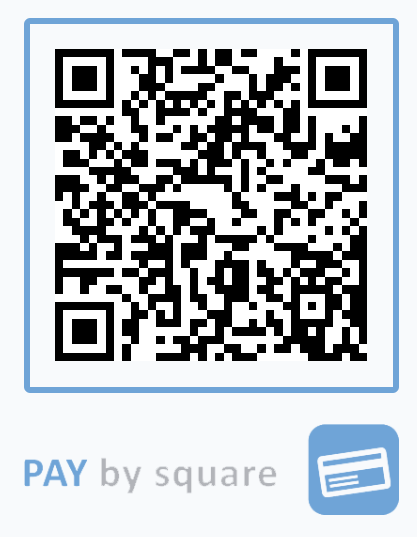
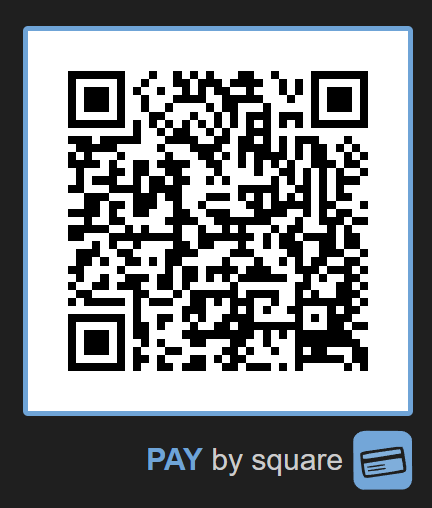
add recipient

diff --git a/index.html b/index.html
@@ -17,7 +17,10 @@
             <input type="text" id="price" name="price" value="5.01" />
 
             <label for="note">Note</label>
-            <input type="text" id="note" name="note" value="jozko mrkvicka" />
+            <input type="text" id="note" name="note" value="pre jozka" />
+
+            <label for="recipient">Recipient</label>
+            <input type="text" id="recipient" name="recipient" value="jozko mrkvicka" />
 
             <label for="iban">IBAN</label>
             <input type="text" id="iban" name="iban" value="SK7700000000000000000000" />
@@ -33,6 +36,8 @@
 
             <label for="cs">CS</label>
             <input type="text" id="cs" name="cs" value="0000" />
+
+
         </div>
         <div>
             <img class="qr-image" src="/qr.php?price=5.01&note=jozko+mrkvicka&iban=SK7700000000000000000000&swift=CEKOSKBX&vs=00000002&ss=2022&cs=0000" alt="">
@@ -51,13 +56,14 @@
         function refreshCode() {
             const price = document.querySelector('#price').value;
             const note = document.querySelector('#note').value;
+            const recipient = document.querySelector('#recipient').value;
             const iban = document.querySelector('#iban').value;
             const swift = document.querySelector('#swift').value;
             const vs = document.querySelector('#vs').value;
             const ss = document.querySelector('#ss').value;
             const cs = document.querySelector('#cs').value;
 
-            const qrCode = `${window.location.origin}/qr.php?price=${encodeURIComponent(price)}&note=${encodeURIComponent(note)}&iban=${encodeURIComponent(iban)}&swift=${encodeURIComponent(swift)}&vs=${encodeURIComponent(vs)}&ss=${encodeURIComponent(ss)}&cs=${encodeURIComponent(cs)}`;
+            const qrCode = `${window.location.origin}/qr.php?price=${encodeURIComponent(price)}&note=${encodeURIComponent(note)}&iban=${encodeURIComponent(iban)}&swift=${encodeURIComponent(swift)}&vs=${encodeURIComponent(vs)}&ss=${encodeURIComponent(ss)}&cs=${encodeURIComponent(cs)}&recipient=${encodeURIComponent(recipient)}`;
             const qrImage = document.querySelector('.qr-image');
             qrImage.src = qrCode;
 

diff --git a/qr.php b/qr.php
@@ -116,6 +116,7 @@ function remove_accents($string) {
 }
 
 
+$recipient = isset($_GET['recipient']) ? $_GET['recipient'] : '';
 
 
 // price in format with max 2 decimal places
@@ -213,7 +214,8 @@ $d = implode("\t", array(
 		$iban,	// IBAN
 		$swift,						// SWIFT
 		'0',
-		'0'
+		'0',
+		$recipient
 	))
 ));
 $d = strrev(hash("crc32b", $d, TRUE)) . $d;

diff --git a/README.md b/README.md
@@ -39,13 +39,13 @@ HTML:
 <!DOCTYPE html>
 <html lang="sk">
 <head>
-    <link rel="stylesheet" href="https://qr.slada.sk/assets/qr.css">
+    <link rel="stylesheet" href="https://qr.example.com/assets/qr.css">
 </head>
 <body>   
-    <img class="qr-image" src="https://qr.slada.sk/qr.php?price=5.01&note=jozko%20mrkvicka&iban=SK7700000000000000000000&swift=CEKOSKBX&vs=00000002&ss=2022&cs=0000" alt="">
+    <img class="qr-image" src="https://qr.example.com/qr.php?price=5.01&note=pre%20jozka&iban=SK7700000000000000000000&swift=CEKOSKBX&vs=00000002&ss=2022&cs=0000&recipient=jozko%20mrkvicka" alt="">
     <div class="qr-bottom-txt">
         <div><span class="qr-txt-blue">PAY</span> <span class="qr-txt-gray">by square</span></div>
-        <img class="qr-card" src="https://qr.slada.sk/assets/card.svg" alt="">
+        <img class="qr-card" src="https://qr.example.com/assets/card.svg" alt="">
     </div>
 </body>
 </html>
@@ -55,7 +55,8 @@ HTML:
 | **Parameter** | **Popis**                             | **Ukážka**               | **Obmedzenie**           |
 |---------------|---------------------------------------|--------------------------|--------------------------|
 | price         | Cena                                  | 5.01                     | Max 2 desatinné miesta   |
-| note          | Poznámka k platbe                     | jozko+mrkvicka           | Max 35 znakov            |
+| note          | Poznámka k platbe                     | pre jozka                | Max 35 znakov            |
+| recipient     | Názov príjemcu                        | jozko mrkvicka           | ?                        |
 | iban          | Číslo účtu (IBAN)                     | SK7700000000000000000000 | Bez medzier              |
 | swift         | Bankový identifikačný kód (BIC/SWIFT) | CEKOSKBX                 |                          |
 | vs            | Variabilný symbol                     | 00000002                 | Len čísla, max 10 znakov |
